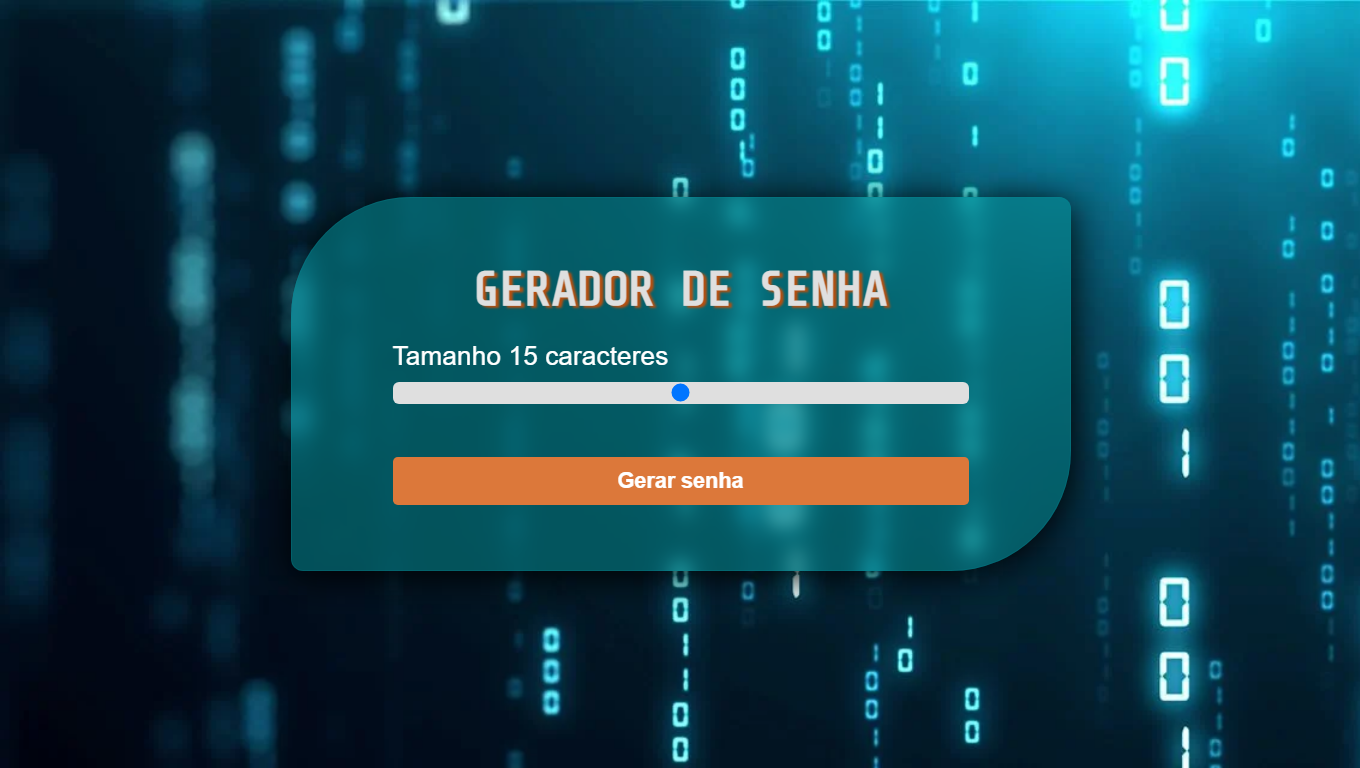
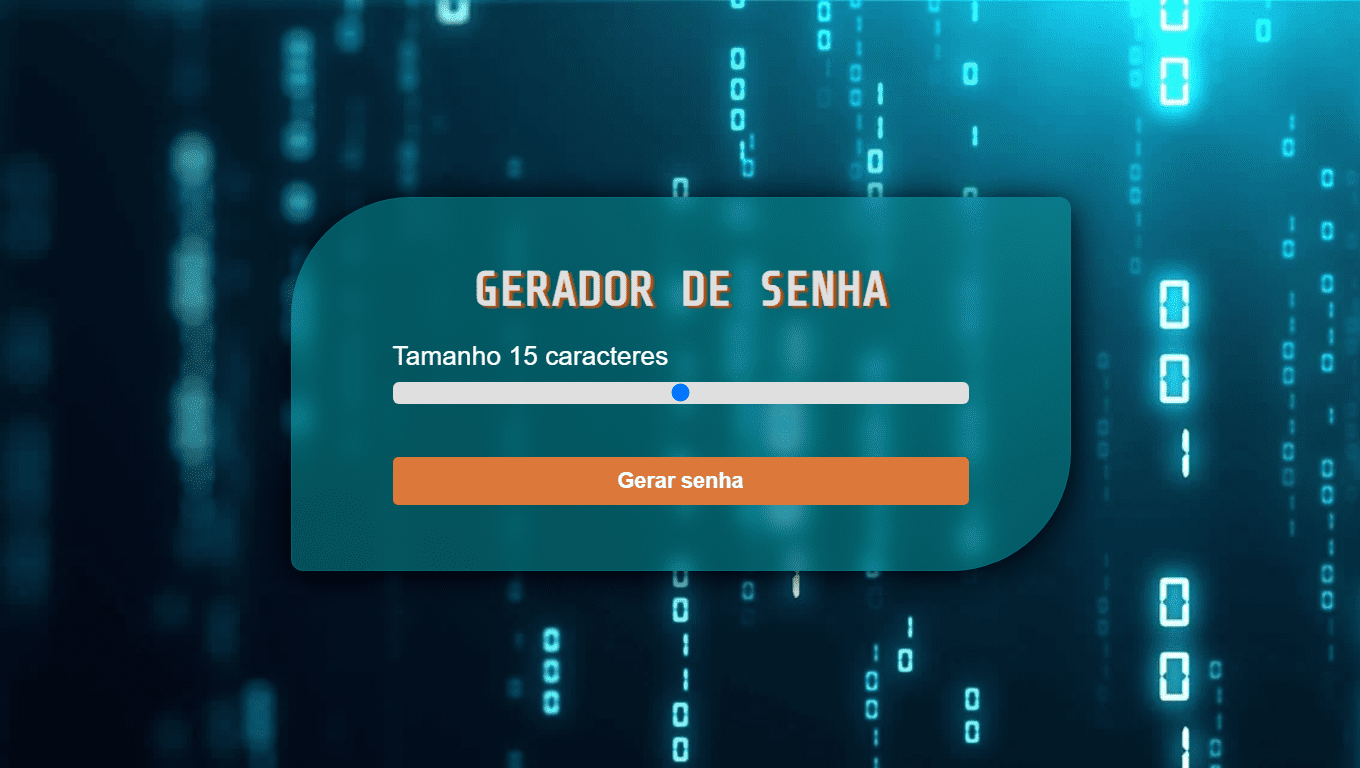
images compress and images webp

diff --git a/index.html b/index.html
@@ -162,7 +162,10 @@
       <div class="projetos">
         <div class="card">
           <div class="card-img-wrapper">
-            <img src="./imagens/webpages/paginaDSMeta.png" alt="imagem do projeto DS Meta" />
+            <picture>
+              <source srcset="./imagens/webpages/paginaDSMeta.webp" type="image/webp">
+              <img src="./imagens/webpages/pagina7daysOfCode.png" alt="imagem do projeto DS Meta" />
+            </picture>
           </div>
           <div class="card-info">
             <h2>DS Meta</h2>
@@ -180,7 +183,11 @@
 
         <div class="card">
           <div class="card-img-wrapper">
-            <img src="./imagens/webpages/paginaMundoInvertido.png" alt="imagem do projeto Mundo Invertido" />
+            <picture>
+              <source srcset="./imagens/webpages/paginaMundoInvertido.webp" type="image/webp">
+              <img src="./imagens/webpages/paginaMundoInvertido.png" alt="imagem do projeto Mundo Invertido" />
+            </picture>
+
           </div>
           <div class="card-info">
             <h2>Mundo Invertido</h2>
@@ -199,7 +206,10 @@
 
         <div class="card">
           <div class="card-img-wrapper">
-            <img src="./imagens/webpages/paginaReveleSeuDestino.png" alt="imagem do projeto Revelador de Destino" />
+            <picture>
+              <source srcset="./imagens/webpages/paginaReveleSeuDestino.webp" type="image/webp" />
+              <img src="./imagens/webpages/paginaReveleSeuDestino.png" alt="imagem do projeto Revelador de Destino" />
+            </picture>
           </div>
           <div class="card-info">
             <h2>Revelador de Destino</h2>
@@ -215,7 +225,10 @@
 
         <div class="card">
           <div class="card-img-wrapper">
-            <img src="./imagens/webpages/paginaGeradorSenha.png" alt="imagem do projeto Gerador de Senha" />
+            <picture>
+              <source srcset="./imagens/webpages/paginaGeradorSenha.webp" type="image/webp" />
+              <img src="./imagens/webpages/paginaGeradorSenha.png" alt="imagem do projeto Gerador de Senha" />
+            </picture>
           </div>
           <div class="card-info">
             <h2>Gerador de Senha</h2>
@@ -231,7 +244,10 @@
 
         <div class="card">
           <div class="card-img-wrapper">
-            <img src="./imagens/webpages/paginaAgrupadorLinks.png" alt="imagem do projeto Agrupador de Links" />
+            <picture>
+              <source srcset="./imagens/webpages/paginaAgrupadorLinks.webp" type="image/webp" />
+              <img src="./imagens/webpages/paginaAgrupadorLinks.png" alt="imagem do projeto Agrupador de Links" />
+            </picture>
           </div>
           <div class="card-info">
             <h2>Agrupador de links</h2>
@@ -248,8 +264,10 @@
 
         <div class="card">
           <div class="card-img-wrapper">
-            <img src="./imagens/webpages/paginaMensagensAniversario.png"
-              alt="imagem do projeto Mensagens de Aniversário" />
+            <picture>
+              <source srcset="./imagens/webpages/paginaMensagensAniversario.webp" type="image/webp" />
+              <img src="./imagens/webpages/paginaMensagensAniversario.png" alt="imagem do projeto imagem do projeto Mensagens de Aniversário" />
+            </picture>
           </div>
           <div class="card-info">
             <h2>Mensagens de Aniversário</h2>
@@ -265,8 +283,10 @@
 
         <div class="card">
           <div class="card-img-wrapper">
-            <img src="./imagens/webpages/paginaCalculadoraGorjetas.png"
-              alt="imagem do projeto Calculadora de Gorjetas" />
+            <picture>
+              <source srcset="./imagens/webpages/paginaCalculadoraGorjetas.webp" type="image/webp" />
+              <img src="./imagens/webpages/paginaCalculadoraGorjetas.png" alt="imagem do projeto Calculadora de Gorjetas" />
+            </picture>
           </div>
           <div class="card-info">
             <h2>Calculadora de Gorjetas</h2>
@@ -283,7 +303,10 @@
 
         <div class="card">
           <div class="card-img-wrapper">
-            <img src="./imagens/webpages/pagina7daysOfCode.png" alt="imagem do projeto 7 Days Of Code" />
+            <picture>
+              <source srcset="./imagens/webpages/pagina7daysOfCode.webp" type="image/webp" />
+              <img src="./imagens/webpages/pagina7daysOfCode.png" alt="imagem do projeto 7 Days Of Code" />
+            </picture>
           </div>
           <div class="card-info">
             <h2>7 Days Of Code</h2>
@@ -300,7 +323,10 @@
 
         <div class="card">
           <div class="card-img-wrapper">
-            <img src="./imagens/webpages/paginaNewsLetter.png" alt="imagem do projeto Newsletter" />
+            <picture>
+              <source srcset="./imagens/webpages/paginaNewsLetter.webp" type="image/webp" />
+              <img src="./imagens/webpages/paginaNewsLetter.png" alt="imagem do projeto Newsletter" />
+            </picture>
           </div>
           <div class="card-info">
             <h2>Newsletter</h2>
@@ -316,7 +342,10 @@
 
         <div class="card">
           <div class="card-img-wrapper">
-            <img src="./imagens/webpages/paginaCardapioCafeteria.png" alt="imagem do projeto Newsletter" />
+            <picture>
+              <source srcset="./imagens/webpages/paginaCardapioCafeteria.webp" type="image/webp" />
+              <img src="./imagens/webpages/paginaCardapioCafeteria.png" alt="imagem do projeto Cardápio Cafeteria" />
+            </picture>
           </div>
           <div class="card-info">
             <h2>Cardápio Cafeteria</h2>
@@ -331,7 +360,10 @@
 
         <div class="card">
           <div class="card-img-wrapper">
-            <img src="./imagens/webpages/paginaFormularioSimples.png" alt="imagem do projeto Newsletter" />
+            <picture>
+              <source srcset="./imagens/webpages/paginaFormularioSimples.webp" type="image/webp">
+              <img src="./imagens/webpages/paginaFormularioSimples.png" alt="imagem do projeto Formulário" />
+            </picture>
           </div>
           <div class="card-info">
             <h2>Formulário Simples</h2>
@@ -346,7 +378,10 @@
 
         <div class="card">
           <div class="card-img-wrapper">
-            <img src="./imagens/webpages/paginaLoginDark.png" alt="imagem do projeto Newsletter" />
+            <picture>
+              <source srcset="./imagens/webpages/paginaLoginDark.webp" type="image/webp">
+              <img src="./imagens/webpages/paginaLoginDark.png" alt="imagem do projeto página de login" />
+            </picture>
           </div>
           <div class="card-info">
             <h2>Página de login</h2>

diff --git a/notas.md b/notas.md
@@ -4,8 +4,8 @@ GIFs grandes não são eficientes para exibir conteúdo animado. Use vídeos MPE
 Veicule imagens que tenham o tamanho adequado para economizar dados da rede celular e melhorar o tempo de carregamento. Saiba mais.
 [Redimensione imagens](https://web.dev/uses-responsive-images/?utm_source=lighthouse&utm_medium=devtools)
 
-Formatos de imagem como WebP e AVIF costumam ter uma compressão melhor que PNG e JPEG, o que gera downloads mais rápidos e menos consumo dados. Saiba mais.
-[imagens em formatos modernos](https://web.dev/uses-webp-images/?utm_source=lighthouse&utm_medium=devtools)
+<!-- Formatos de imagem como WebP e AVIF costumam ter uma compressão melhor que PNG e JPEG, o que gera downloads mais rápidos e menos consumo dados. Saiba mais.
+[imagens em formatos modernos](https://web.dev/uses-webp-images/?utm_source=lighthouse&utm_medium=devtools) -->
 
 Os recursos estão bloqueando a primeira exibição da sua página. Exiba JS/CSS crítico inline e adie todos os JS/estilos não críticos. Saiba mais.
 [bloqueio de renderização](https://web.dev/render-blocking-resources/?utm_source=lighthouse&utm_medium=devtools)
